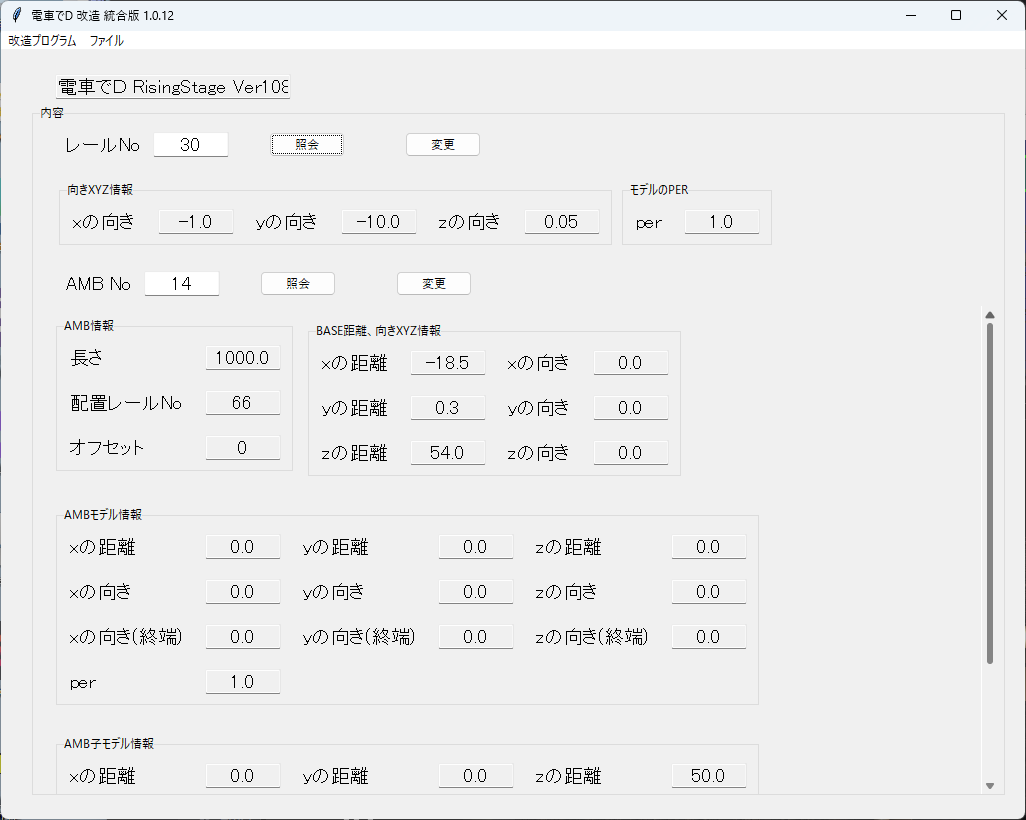
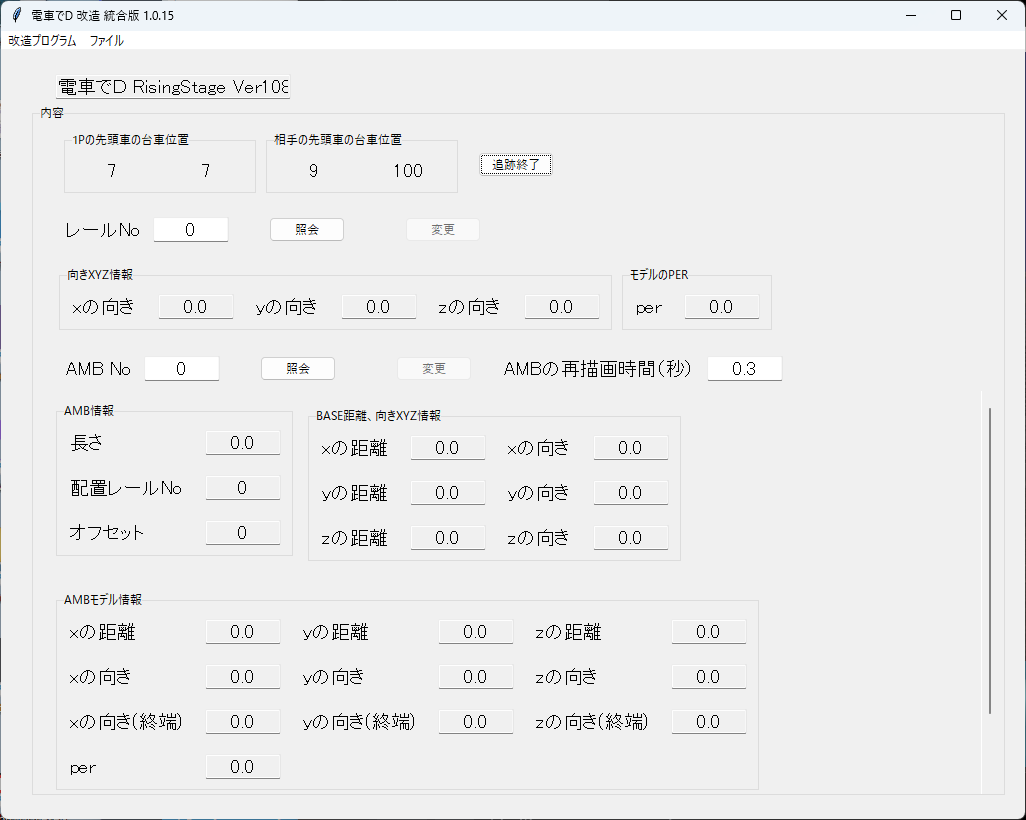
1.0.15 レール位置の追跡機能追加

diff --git a/program/rsRail/rsRail.py b/program/rsRail/rsRail.py
@@ -9,6 +9,12 @@ from program.tkinterScrollbarFrameClass import ScrollbarFrame
 
 
 root = None
+v_rail1PRail = None
+v_rail1PPos = None
+v_rail2PRail = None
+v_rail2PPos = None
+railPosSearchBtn = None
+searchRailFuncId = None
 v_railNo = None
 v_ambNo = None
 v_fileName = None
@@ -33,6 +39,11 @@ def deleteAllWidget():
 
 
 def createWidget():
+    global v_rail1PRail
+    global v_rail1PPos
+    global v_rail2PRail
+    global v_rail2PPos
+    global railPosSearchBtn
     global v_railNo
     global v_ambNo
     global v_delay
@@ -45,6 +56,38 @@ def createWidget():
 
     railValList = []
     railElementList = []
+
+    railPosFrame = ttk.Frame(contentsLf)
+    railPosFrame.pack(anchor=tkinter.NW, padx=30, pady=10, fill=tkinter.X)
+
+    rail1PLf = ttk.LabelFrame(railPosFrame, text="1Pの先頭車の台車位置")
+    rail1PLf.pack(anchor=tkinter.NW, side=tkinter.LEFT)
+
+    v_rail1PRail = tkinter.IntVar()
+    v_rail1PRail.set(-1)
+    rail1PRailLb = ttk.Label(rail1PLf, textvariable=v_rail1PRail, font=("", 14), width=7, justify="center", anchor="center")
+    rail1PRailLb.grid(row=0, column=0, sticky=tkinter.W + tkinter.E, padx=10, pady=10)
+
+    v_rail1PPos = tkinter.IntVar()
+    v_rail1PPos.set(-1)
+    rail1PPosLb = ttk.Label(rail1PLf, textvariable=v_rail1PPos, font=("", 14), width=7, justify="center", anchor="center")
+    rail1PPosLb.grid(row=0, column=1, sticky=tkinter.W + tkinter.E, padx=10, pady=10)
+
+    rail2PLf = ttk.LabelFrame(railPosFrame, text="相手の先頭車の台車位置")
+    rail2PLf.pack(anchor=tkinter.NW, side=tkinter.LEFT, padx=10)
+
+    v_rail2PRail = tkinter.IntVar()
+    v_rail2PRail.set(-1)
+    rail2PRailLb = ttk.Label(rail2PLf, textvariable=v_rail2PRail, font=("", 14), width=7, justify="center", anchor="center")
+    rail2PRailLb.grid(row=0, column=0, sticky=tkinter.W + tkinter.E, padx=10, pady=10)
+
+    v_rail2PPos = tkinter.IntVar()
+    v_rail2PPos.set(-1)
+    rail2PPosLb = ttk.Label(rail2PLf, textvariable=v_rail2PPos, font=("", 14), width=7, justify="center", anchor="center")
+    rail2PPosLb.grid(row=0, column=1, sticky=tkinter.W + tkinter.E, padx=10, pady=10)
+
+    railPosSearchBtn = ttk.Button(railPosFrame, text="追跡開始", command=lambda: searchRailPos())
+    railPosSearchBtn.pack(anchor=tkinter.NW, side=tkinter.LEFT, padx=10, pady=20)
 
     railNoFrame = ttk.Frame(contentsLf)
     railNoFrame.pack(anchor=tkinter.NW, padx=30, pady=10, fill=tkinter.X)
@@ -372,6 +415,59 @@ def setAmbModel(ambModelLf, flag):
         ambElementList.append(perEt)
     else:
         ambChildElementList.append(perEt)
+
+
+def searchRailPos():
+    global railPosSearchBtn
+
+    railPosSearchBtn["text"] = "追跡終了"
+    railPosSearchBtn["command"] = lambda: searchRailPosExit()
+    railPosUpdate()
+
+
+def railPosUpdate():
+    global v_rail1PRail
+    global v_rail1PPos
+    global v_rail2PRail
+    global v_rail2PPos
+    global railPosSearchBtn
+    global searchRailFuncId
+    global memoryObj
+
+    try:
+        val1PList = memoryObj.getRailPos(0)
+        if val1PList is not None:
+            v_rail1PRail.set(val1PList[0])
+            v_rail1PPos.set(val1PList[1])
+        else:
+            v_rail1PRail.set(-1)
+            v_rail1PPos.set(-1)
+    except Exception:
+        v_rail1PRail.set(-1)
+        v_rail1PPos.set(-1)
+
+    try:
+        val2PList = memoryObj.getRailPos(1)
+        if val2PList is not None:
+            v_rail2PRail.set(val2PList[0])
+            v_rail2PPos.set(val2PList[1])
+        else:
+            v_rail2PRail.set(-1)
+            v_rail2PPos.set(-1)
+    except Exception:
+        v_rail2PRail.set(-1)
+        v_rail2PPos.set(-1)
+
+    searchRailFuncId = railPosSearchBtn.after(1, railPosUpdate)
+
+
+def searchRailPosExit():
+    global searchRailFuncId
+    global railPosSearchBtn
+
+    railPosSearchBtn.after_cancel(searchRailFuncId)
+    railPosSearchBtn["text"] = "追跡開始"
+    railPosSearchBtn["command"] = lambda: searchRailPos()
 
 
 def searchRail():

diff --git a/program/rsRail/getMemory/getMemory.py b/program/rsRail/getMemory/getMemory.py
@@ -44,6 +44,32 @@ class GetMemory:
             ]
         ]
 
+        self.rail1pMemory = [
+            0x000CA558,
+            [
+                0x30,
+                0x38,
+                0x20,
+                0x100,
+                0x14,
+                0xFC,
+                0x10
+            ]
+        ]
+
+        self.rail2pMemory = [
+            0x000CA558,
+            [
+                0xBC,
+                0x4,
+                0x30,
+                0x154,
+                0x14,
+                0xFC,
+                0x10
+            ]
+        ]
+
     def open(self):
         try:
             self.mem = Pymem(self.fileName)
@@ -193,6 +219,28 @@ class GetMemory:
         except Exception:
             self.error = traceback.format_exc()
             return False
+
+    def getRailPos(self, playerNum):
+        if playerNum == 0:
+            copyMemoryAddr = copy.deepcopy(self.rail1pMemory)
+        elif playerNum == 1:
+            copyMemoryAddr = copy.deepcopy(self.rail2pMemory)
+
+        try:
+            railAddr = self.getPtrAddr(self.game_module + copyMemoryAddr[0], copyMemoryAddr[1])
+            valList = []
+
+            railNum = self.mem.read_short(railAddr)
+            valList.append(railNum)
+            railAddr += 2
+
+            railPos = self.mem.read_short(railAddr)
+            valList.append(railPos)
+
+            return valList
+        except Exception:
+            self.error = traceback.format_exc()
+            return None
 
     def getPtrAddr(self, address, offsets):
         addr = self.mem.read_int(address)

diff --git a/program/rsRail/README.md b/program/rsRail/README.md
@@ -9,9 +9,16 @@
 
 必ず、1.08の最新バージョンを開くこと。
 
-また、メモリーを上書きする動作なので、管理者権限で実行すること。
+また、メモリーを参照、上書きする動作なので、管理者権限で実行すること。
 
 リアルタイムで、レールとAMBの配置をプレビューするための機能である。
+
+
+### レール位置を追跡する
+
+追跡開始のボタンで、リアルタイムで1Pと2Pのレール位置を表示する。
+
+追跡終了ボタンに変わり、もう1回押すと、追跡を終了する。
 
 
 ### レールデータを修正する
